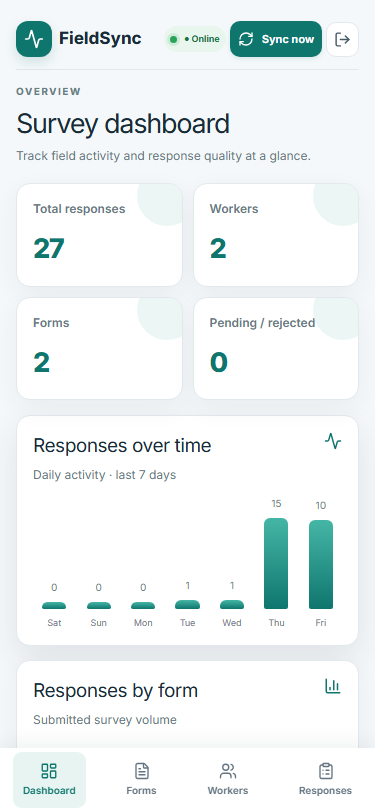
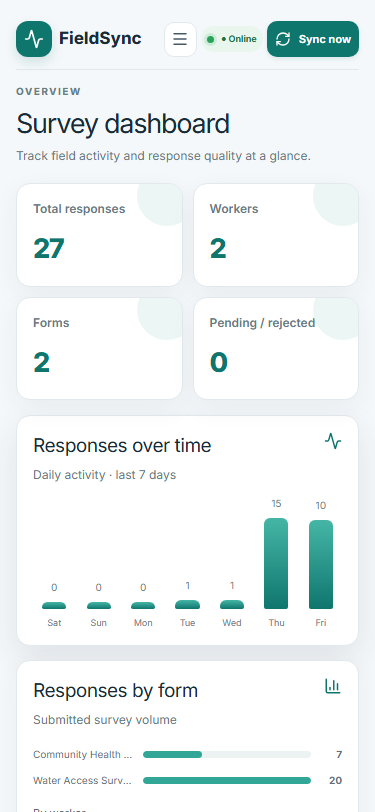
fix(ui): polish mobile admin navigation

Changed region(s): [[0.0587, 0.9236, 0.9387, 1.0], [0.44, 0.0, 0.968, 0.0924]]

diff --git a/client/src/ui/App.tsx b/client/src/ui/App.tsx
@@ -1,7 +1,7 @@
 import React,{useCallback,useEffect,useMemo,useState}from'react';import{MapContainer,TileLayer,Marker,Popup}from'react-leaflet';import L from'leaflet';import'leaflet/dist/leaflet.css';import{FormDefinitionSchema,isFieldVisible,validateAnswers,retryDelay,type Field}from'@fieldsync/shared';import{api,apiUrl,getSession,setSession,type Session}from'../api';import FormRenderer from './FormRenderer';import { Card, Modal, Table } from '../components/ui';import { Activity, ArrowRight, BarChart3, Check, ChevronDown, ClipboardList, Cloud, CloudOff, Download, FilePlus2, FileText, LayoutDashboard, LogOut, MapPin, Menu, Plus, RefreshCw, Search, ShieldCheck, Users, Wifi, WifiOff, X } from 'lucide-react';import{db,type CachedForm,type LocalResponse}from'../db';
 const pin=L.divIcon({className:'map-pin',html:'<svg viewBox="0 0 32 42" width="32" height="42" aria-hidden="true"><path d="M16 1C7.7 1 1 7.7 1 16c0 11 15 25 15 25s15-14 15-25C31 7.7 24.3 1 16 1Z" fill="#0f766e" stroke="white" stroke-width="2"/><circle cx="16" cy="16" r="5" fill="white"/></svg>',iconSize:[32,42],iconAnchor:[16,41]});
 type Form={id:string;title:string;assignments?:{workerId:string}[];versions:{id:string;version:number;title:string;fields:Field[];createdAt:string}[]};type ResponseRow={id:string;clientId:string;answers:Record<string,unknown>;lat:number|null;lng:number|null;collectedAt:string;status:string;worker:{id:string;name:string};formVersion:{version:number;fields:Field[];form:{id:string;title:string}}};
-export default function App(){const[session,setSess]=useState<Session|null>(getSession());const[tab,setTab]=useState('');const[activeFormId,setActiveFormId]=useState<string|null>(()=>localStorage.getItem('fieldsync.activeForm'));const[online,setOnline]=useState(navigator.onLine);const[forms,setForms]=useState<Form[]>([]);const[rows,setRows]=useState<ResponseRow[]>([]);const[local,setLocal]=useState<LocalResponse[]>([]);const[workers,setWorkers]=useState<{id:string;name:string;email:string}[]>([]);const[error,setError]=useState('');const[busy,setBusy]=useState(false);const[notice,setNotice]=useState('');const[filterForm,setFilterForm]=useState('');const[filterWorker,setFilterWorker]=useState('');const[filterStatus,setFilterStatus]=useState('');const[filterFrom,setFilterFrom]=useState('');const[filterTo,setFilterTo]=useState('');const[responsePage,setResponsePage]=useState(1);const[responsePages,setResponsePages]=useState(1);const[responseTotal,setResponseTotal]=useState(0);const[loadingResponses,setLoadingResponses]=useState(false);const[formTitle,setFormTitle]=useState('');const[editingFormId,setEditingFormId]=useState<string|null>(null);const[assignedWorkerIds,setAssignedWorkerIds]=useState<string[]>([]);const[editingResponseId,setEditingResponseId]=useState<string|null>(null);const[fields,setFields]=useState<Field[]>([{id:crypto.randomUUID(),label:'Your answer',type:'text',required:true}]);
+export default function App(){const[session,setSess]=useState<Session|null>(getSession());const[tab,setTab]=useState('');const[mobileMenuOpen,setMobileMenuOpen]=useState(false);const[activeFormId,setActiveFormId]=useState<string|null>(()=>localStorage.getItem('fieldsync.activeForm'));const[online,setOnline]=useState(navigator.onLine);const[forms,setForms]=useState<Form[]>([]);const[rows,setRows]=useState<ResponseRow[]>([]);const[local,setLocal]=useState<LocalResponse[]>([]);const[workers,setWorkers]=useState<{id:string;name:string;email:string}[]>([]);const[error,setError]=useState('');const[busy,setBusy]=useState(false);const[notice,setNotice]=useState('');const[filterForm,setFilterForm]=useState('');const[filterWorker,setFilterWorker]=useState('');const[filterStatus,setFilterStatus]=useState('');const[filterFrom,setFilterFrom]=useState('');const[filterTo,setFilterTo]=useState('');const[responsePage,setResponsePage]=useState(1);const[responsePages,setResponsePages]=useState(1);const[responseTotal,setResponseTotal]=useState(0);const[loadingResponses,setLoadingResponses]=useState(false);const[formTitle,setFormTitle]=useState('');const[editingFormId,setEditingFormId]=useState<string|null>(null);const[assignedWorkerIds,setAssignedWorkerIds]=useState<string[]>([]);const[editingResponseId,setEditingResponseId]=useState<string|null>(null);const[fields,setFields]=useState<Field[]>([{id:crypto.randomUUID(),label:'Your answer',type:'text',required:true}]);
 const sayError=(e:unknown)=>setError(e instanceof Error?e.message:'Something went wrong');
 const refreshLocal=useCallback(async()=>setLocal(await db.outbox.orderBy('collectedAt').reverse().toArray()),[]);
 const refreshData=useCallback(async()=>{if(!session)return;try{const f=await api<Form[]>('/forms/assigned');setForms(f);await Promise.all(f.map(x=>db.forms.put(x)));if(navigator.onLine){const l=await api<{items:ResponseRow[]}>('/responses');setRows(l.items);if(session.user.role==='ADMIN')setWorkers(await api('/admin/workers'))}await refreshLocal();setError('')}catch(e){const cached=await db.forms.toArray();if(cached.length)setForms(cached as Form[]);await refreshLocal();if(!cached.length)sayError(e)}},[session,refreshLocal]);
@@ -13,8 +13,8 @@ async function saveResponse(form:Form,answers:Record<string,unknown>){const v=fo
 const editingLocal=local.find(item=>item.clientId===editingResponseId);const editingForm=editingLocal&&forms.find(form=>form.versions.some(version=>version.id===editingLocal.formVersionId));const editingVersion=editingLocal&&editingForm?.versions.find(version=>version.id===editingLocal.formVersionId);
 if(!session)return <Login onLogin={login} error={error} setError={setError}/>;
 const admin=session.user.role==='ADMIN';const available=['Dashboard','Forms','Workers','Responses'];const workerTabs=['Collect','My responses','Sync'];const tabs=admin?available:workerTabs;
-return <main className={`shell app-shell ${admin ? 'admin-shell' : 'worker-shell'}`}><header className="topbar"><div className="brand brand-lockup"><span className="brand-mark"><Activity size={20}/></span><span className="brand-copy">FieldSync<span>Field surveys that keep working offline</span></span></div><div style={{textAlign:'right'}}><div className="muted" style={{fontSize:13}}>{session.user.name} · {session.user.role}</div><div style={{marginTop:7,display:'flex',gap:8,justifyContent:'flex-end',alignItems:'center'}}><span className={`connection-pill ${online?'is-online':'is-offline'}`}><i/>{online?'● Online':'● Offline'}</span><span className="sync-count">{local.filter(item=>item.status==='PENDING'||item.status==='FAILED').length} waiting to sync</span><button className="btn sync-button" onClick={()=>void sync()} disabled={busy||!online}><RefreshCw size={16} className={busy?'spin':''}/>{busy?'Syncing…':'Sync now'}</button><button className="icon-button" aria-label="Sign out" onClick={()=>void logout()}><LogOut size={17}/></button></div></div></header>
-<nav className={`tabs ${admin?'admin-nav':'worker-nav'}`}>{tabs.map(x=><button key={x} className={tab===x?'active':''} onClick={()=>{setTab(x);setError('');setNotice('')}}><NavIcon name={x}/>{x}</button>)}</nav>{error&&<p role="alert" className="error global-alert">{error}</p>}{notice&&<p role="status" className="success toast"><Check size={16}/>{notice}</p>}
+return <main className={`shell app-shell ${admin ? 'admin-shell' : 'worker-shell'}`}><header className="topbar"><div className="brand brand-lockup"><span className="brand-mark"><Activity size={20}/></span><span className="brand-copy">FieldSync<span>Field surveys that keep working offline</span></span></div><div style={{textAlign:'right'}}><div className="muted" style={{fontSize:13}}>{session.user.name} · {session.user.role}</div><div style={{marginTop:7,display:'flex',gap:8,justifyContent:'flex-end',alignItems:'center'}}>{admin&&<button className="icon-button mobile-menu" aria-label={mobileMenuOpen?'Close navigation menu':'Open navigation menu'} onClick={()=>setMobileMenuOpen(value=>!value)}>{mobileMenuOpen?<X size={18}/>:<Menu size={18}/>}</button>}<span className={`connection-pill ${online?'is-online':'is-offline'}`}><i/>{online?'● Online':'● Offline'}</span><span className="sync-count">{local.filter(item=>item.status==='PENDING'||item.status==='FAILED').length} waiting to sync</span><button className="btn sync-button" onClick={()=>void sync()} disabled={busy||!online}><RefreshCw size={16} className={busy?'spin':''}/>{busy?'Syncing…':'Sync now'}</button><button className="icon-button" aria-label="Sign out" onClick={()=>void logout()}><LogOut size={17}/></button></div></div></header>
+<nav className={`tabs ${admin?'admin-nav':'worker-nav'} ${mobileMenuOpen?'mobile-open':''}`}>{tabs.map(x=><button key={x} className={tab===x?'active':''} onClick={()=>{setTab(x);setError('');setNotice('');setMobileMenuOpen(false)}}><NavIcon name={x}/>{x}</button>)}{admin&&mobileMenuOpen&&<button className="mobile-logout" onClick={()=>void logout()}><LogOut size={17}/>Sign out</button>}</nav>{error&&<p role="alert" className="error global-alert">{error}</p>}{notice&&<p role="status" className="success toast"><Check size={16}/>{notice}</p>}
 {admin&&tab==='Dashboard'&&<section className="screen"><div className="screen-heading"><div><p className="eyebrow">OVERVIEW</p><h1>Survey dashboard</h1><p className="muted">Track field activity and response quality at a glance.</p></div></div><div className="grid stat-grid"><Metric label="Total responses" value={rows.length}/><Metric label="Workers" value={workers.length}/><Metric label="Forms" value={forms.length}/><Metric label="Pending / rejected" value={rows.filter(x=>x.status==='REJECTED').length}/></div><TrendCharts rows={rows}/><div className="card map-card"><div className="card-title-row"><div><h2>Response locations</h2><p className="muted">Responses with captured GPS coordinates.</p></div><span className="map-count"><MapPin size={15}/>{rows.filter(x=>x.lat!=null&&x.lng!=null).length} mapped</span></div><MapContainer center={[20,0]} zoom={2} scrollWheelZoom style={{height:330}}><TileLayer attribution='&copy; OpenStreetMap' url="https://{s}.tile.openstreetmap.org/{z}/{x}/{y}.png"/>{rows.filter(x=>x.lat!=null&&x.lng!=null).map(r=><Marker key={r.id} position={[r.lat!,r.lng!]} icon={pin}><Popup>{r.formVersion.form.title}<br/>{r.worker.name}<br/>{new Date(r.collectedAt).toLocaleString()}</Popup></Marker>)}</MapContainer></div><ResponseTable rows={rows.slice(0,10)}/></section>}
 {admin&&tab==='Forms'&&<section className="screen"><div className="screen-heading"><div><p className="eyebrow">SURVEY DESIGN</p><h1>Form builder</h1><p className="muted">Create clear, reliable forms for your field team.</p></div></div><div className="card"><label>Form title<input value={formTitle} onChange={e=>setFormTitle(e.target.value)} placeholder="Community water access survey"/></label><h3>Assigned workers</h3><div className="grid">{workers.length===0?<p className="muted">No worker accounts yet.</p>:workers.map(w=><label key={w.id} style={{display:'flex',gap:8,alignItems:'center'}}><input type="checkbox" style={{width:'auto'}} checked={assignedWorkerIds.includes(w.id)} onChange={e=>setAssignedWorkerIds(e.target.checked?[...assignedWorkerIds,w.id]:assignedWorkerIds.filter(id=>id!==w.id))}/>{w.name} <span className="muted">{w.email}</span></label>)}</div><h3>Fields</h3>{fields.map((f,i)=><div className="grid" key={f.id} style={{alignItems:'end',borderTop:'1px solid #e8efec',paddingTop:8}}><label>Label<input value={f.label} onChange={e=>setFields(fields.map((x,j)=>j===i?{...x,label:e.target.value}:x))}/></label><label>Type<select value={f.type} onChange={e=>setFields(fields.map((x,j)=>j===i?{...x,type:e.target.value as Field['type'],options:e.target.value.includes('choice')?['Option 1','Option 2']:undefined}:x))}>{['text','number','single_choice','multiple_choice','date','gps'].map(x=><option key={x} value={x}>{x.replace('_',' ')}</option>)}</select></label><label>Required<select value={String(f.required)} onChange={e=>setFields(fields.map((x,j)=>j===i?{...x,required:e.target.value==='true'}:x))}><option value="true">Yes</option><option value="false">No</option></select></label>{f.type==='number'&&<><label>Minimum<input type="number" value={f.min??''} onChange={e=>setFields(fields.map((x,j)=>j===i?{...x,min:e.target.value?Number(e.target.value):undefined}:x))}/></label><label>Maximum<input type="number" value={f.max??''} onChange={e=>setFields(fields.map((x,j)=>j===i?{...x,max:e.target.value?Number(e.target.value):undefined}:x))}/></label></>}{f.type.includes('choice')&&<label>Options (comma separated)<input value={f.options?.join(', ')??''} onChange={e=>setFields(fields.map((x,j)=>j===i?{...x,options:e.target.value.split(',').map(y=>y.trim()).filter(Boolean)}:x))}/></label>}<label>Show only if…<select value={f.condition?.fieldId??''} onChange={e=>setFields(fields.map((x,j)=>j===i?{...x,condition:e.target.value?{fieldId:e.target.value,equals:''}:undefined}:x))}><option value="">Always shown</option>{fields.slice(0,i).filter(x=>x.type.includes('choice')).map(x=><option key={x.id} value={x.id}>{x.label}</option>)}</select></label>{f.condition&&<label>Equals<input value={String(f.condition.equals)} onChange={e=>setFields(fields.map((x,j)=>j===i?{...x,condition:{...x.condition!,equals:e.target.value}}:x))}/></label>}<button className="btn danger" onClick={()=>setFields(fields.filter((_,j)=>j!==i))}>Remove field</button></div>)}<div style={{display:'flex',gap:9,marginTop:15}}><button className="btn secondary" onClick={()=>setFields([...fields,{id:crypto.randomUUID(),label:'New field',type:'text',required:false}])}>Add field</button><button className="btn" onClick={async()=>{try{const definition={title:formTitle,fields};const parsed=FormDefinitionSchema.safeParse(definition);if(!parsed.success)throw new Error(parsed.error.issues[0].message);const saved=editingFormId?await api<Form>(`/forms/${editingFormId}`,{method:'PUT',body:JSON.stringify(parsed.data)}):await api<Form>('/forms',{method:'POST',body:JSON.stringify(parsed.data)});const formId=editingFormId??saved.id;await api(`/forms/${formId}/assignments`,{method:'PUT',body:JSON.stringify({workerIds:assignedWorkerIds})});setEditingFormId(null);setAssignedWorkerIds([]);setFormTitle('');setFields([{id:crypto.randomUUID(),label:'Your answer',type:'text',required:true}]);setNotice(editingFormId?'New form version published':'Form published');await refreshData()}catch(e){sayError(e)}}}>{editingFormId?"Save new version":"Publish form"}</button>{editingFormId&&<button className="btn secondary" onClick={()=>{setEditingFormId(null);setAssignedWorkerIds([]);setFormTitle("");setFields([{id:crypto.randomUUID(),label:"Your answer",type:"text",required:true}])}}>Cancel edit</button>}</div></div><h2>Published forms</h2>{forms.length===0?<Empty>Create your first survey with the builder above.</Empty>:forms.map(f=><div className="card published-form" key={f.id}><div className="published-form-head"><div><h3>{f.title}</h3><p className="muted">v{f.versions[0]?.version} · {f.versions[0]?.fields.length ?? 0} fields</p></div><button className="btn secondary" onClick={()=>{const latest=f.versions[0];setEditingFormId(f.id);setFormTitle(f.title);setFields(latest.fields.map(field=>({...field,options:field.options?[...field.options]:undefined,condition:field.condition?{...field.condition}:undefined})));setAssignedWorkerIds(f.assignments?.map(a=>a.workerId)??[]);setError('');setNotice('Editing a draft of the next form version')}}><FilePlus2 size={15}/>Edit form / assignments</button></div><details className="version-history"><summary>Version history · {f.versions.length} version{f.versions.length===1?'':'s'}</summary><div>{f.versions.map(v=><span key={v.id}>v{v.version} · {new Date(v.createdAt).toLocaleDateString()}</span>)}</div></details></div>)}</section>}
 {admin&&tab==='Workers'&&<Workers workers={workers} onCreated={async()=>{await refreshData();setNotice('Worker created')}} onError={sayError}/>}

diff --git a/client/src/style.css b/client/src/style.css
@@ -7,3 +7,5 @@
 .admin-shell{max-width:1400px;padding-left:258px}.admin-shell .admin-nav{position:fixed;left:max(24px,calc((100vw - 1400px)/2 + 24px));top:112px;width:200px;display:flex;flex-direction:column;align-items:stretch;gap:5px;padding:0;border:0}.admin-nav button{justify-content:flex-start;padding:12px}.worker-nav{display:flex;align-items:center;margin:0 0 24px}.published-form-head{display:flex;justify-content:space-between;align-items:center;gap:12px}.published-form-head h3{margin:0}.published-form-head p{font-size:11px;margin:5px 0 0}.version-history{margin-top:13px;border-top:1px solid var(--line);padding-top:10px;color:#62757f;font-size:11px}.version-history summary{cursor:pointer;font-weight:650}.version-history>div{display:flex;gap:14px;flex-wrap:wrap;padding-top:10px}.pagination{display:flex;gap:12px;align-items:center;justify-content:center;margin:14px}.clear-filters{align-self:end}.login-form-wrap .password-wrap{margin:0 0 13px}.login-form-wrap .password-wrap input{margin:0}.password-wrap .password-toggle{position:absolute;right:7px;top:8px}.login-form-wrap .login-submit{margin-top:7px}@media(max-width:900px){.admin-shell{padding-left:205px}.admin-shell .admin-nav{left:12px;width:170px}.admin-nav button{padding:10px}.filter-card .grid{grid-template-columns:repeat(3,minmax(0,1fr))}}@media(max-width:640px){.admin-shell{padding:17px 16px 84px}.admin-shell .admin-nav{left:0;top:auto;width:auto}.worker-nav{margin:0}.published-form-head{align-items:flex-start;flex-direction:column}.pagination{flex-wrap:wrap;font-size:11px}}
 @media(max-width:640px){.stat-grid{grid-template-columns:repeat(2,minmax(0,1fr))}.topbar{gap:7px}.brand-copy>span{display:none}.brand-lockup{gap:7px}.topbar>div:nth-child(2)>div:last-child{gap:4px!important}.connection-pill{font-size:9px;padding:6px}.sync-button{font-size:11px;padding:6px 7px}.icon-button{width:33px;height:35px}.screen{animation:none}.survey-title-row{flex-direction:column}.stat-grid .metric-card{min-height:88px}}
 @media(max-width:640px){.admin-shell .admin-nav{flex-direction:row;align-items:center;justify-content:space-around}}
+.mobile-menu{display:none}@media(max-width:640px){.mobile-menu{display:grid;order:-1}.admin-shell .admin-nav{display:none}.admin-shell .admin-nav.mobile-open{display:flex;position:fixed;left:12px;right:12px;top:62px;bottom:auto;width:auto;height:auto;align-items:stretch;flex-direction:column;justify-content:flex-start;gap:3px;padding:8px;background:var(--surface);border:1px solid var(--line);border-radius:13px;box-shadow:var(--shadow-hover)}.admin-shell .admin-nav.mobile-open button{width:100%;flex-direction:row;justify-content:flex-start;padding:11px 12px;font-size:12px}}
+@media(max-width:640px){.admin-shell .topbar>div:nth-child(2)>div:last-child>.icon-button:not(.mobile-menu){display:none}.admin-shell .mobile-menu{order:0}.admin-shell .admin-nav.mobile-open .mobile-logout{width:100%;display:flex;align-items:center;gap:9px;border:0;border-top:1px solid var(--line);padding:12px;background:transparent;color:#667782;text-align:left;font-size:12px}}
